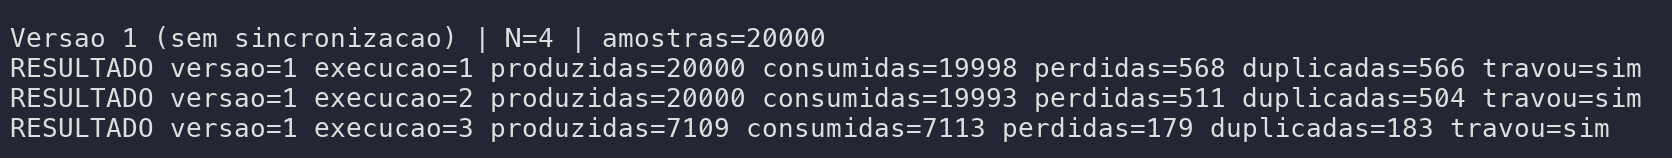
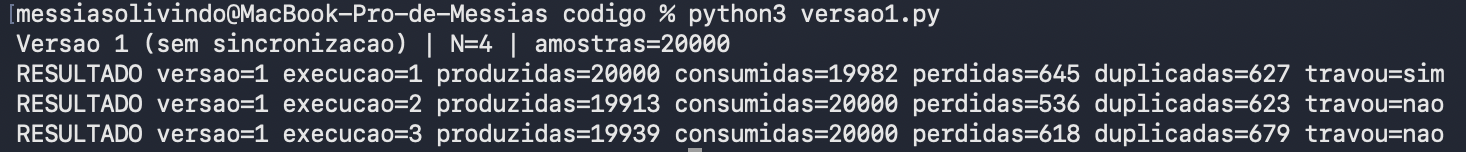
docs(a4): prints do terminal com N = 4 e números novos da versão 1

diff --git a/ponderada/ponderada-tato.md b/ponderada/ponderada-tato.md
@@ -238,9 +238,9 @@ Código em [`codigo/`](codigo/). Python 3, N = 4, 20.000 amostras, 3 execuções
 
 | versão | exec. | produzidas | consumidas | perdidas | duplicadas | travou |
 |---|---|---|---|---|---|---|
-| 1 (sem sincronização) | 1 | 20000 | 19998 | 568 | 566 | **sim** |
-| 1 | 2 | 20000 | 19993 | 511 | 504 | **sim** |
-| 1 | 3 | 7109 | 7113 | 179 | 183 | **sim** |
+| 1 (sem sincronização) | 1 | 20000 | 19982 | 645 | 627 | **sim** |
+| 1 | 2 | 19913 | 20000 | 536 | 623 | não |
+| 1 | 3 | 19939 | 20000 | 618 | 679 | não |
 | 2 (semáforos) | 1 | 20000 | 20000 | 0 | 0 | não |
 | 2 | 2 | 20000 | 20000 | 0 | 0 | não |
 | 2 | 3 | 20000 | 20000 | 0 | 0 | não |
@@ -254,9 +254,9 @@ Versão 1 (`python3 versao1.py`):
 
 ```
 Versao 1 (sem sincronizacao) | N=4 | amostras=20000
-RESULTADO versao=1 execucao=1 produzidas=20000 consumidas=19998 perdidas=568 duplicadas=566 travou=sim
-RESULTADO versao=1 execucao=2 produzidas=20000 consumidas=19993 perdidas=511 duplicadas=504 travou=sim
-RESULTADO versao=1 execucao=3 produzidas=7109 consumidas=7113 perdidas=179 duplicadas=183 travou=sim
+RESULTADO versao=1 execucao=1 produzidas=20000 consumidas=19982 perdidas=645 duplicadas=627 travou=sim
+RESULTADO versao=1 execucao=2 produzidas=19913 consumidas=20000 perdidas=536 duplicadas=623 travou=nao
+RESULTADO versao=1 execucao=3 produzidas=19939 consumidas=20000 perdidas=618 duplicadas=679 travou=nao
 ```
 
 ![versão 1](img/a4-versao1.png)
@@ -298,7 +298,7 @@ A região crítica é o trio **ler `ocupadas`, `sleep(0)`, escrever `ocupadas`**
 - **Contador menor que o real:** o produtor acha que há vaga onde ainda há amostra não lida e a sobrescreve. A amostra é **perdida**.
 - **Contador maior que o real:** o consumidor acha que há amostra onde a posição já foi lida e lê de novo. A amostra é **duplicada**.
 
-Nas três execuções o contador corrompido acabou deixando o consumidor 1 s sem receber nada, e o vigia encerrou por travamento. Nas execuções 1 e 2 isso só aconteceu no final, depois de o produtor gerar as 20.000 amostras; na execução 3 aconteceu no meio, com 7.109 produzidas. Em todas houve perda e duplicata: o consumidor leu posições velhas (duplicata) e o produtor sobrescreveu posições não lidas (perda).
+Na execução 1 o contador corrompido deixou o consumidor 1 s sem receber nada no final, depois de o produtor gerar as 20.000 amostras, e o vigia encerrou por travamento. Nas execuções 2 e 3 não houve travamento, mas o erro apareceu do outro lado: o consumidor completou as 20.000 leituras antes de o produtor terminar (19.913 e 19.939 produzidas), porque o contador corrompido o fez ler posições sem amostra nova. Em todas houve perda e duplicata: o consumidor leu posições velhas (duplicata) e o produtor sobrescreveu posições não lidas (perda).
 
 ### O que cada semáforo garante na versão 2
 
